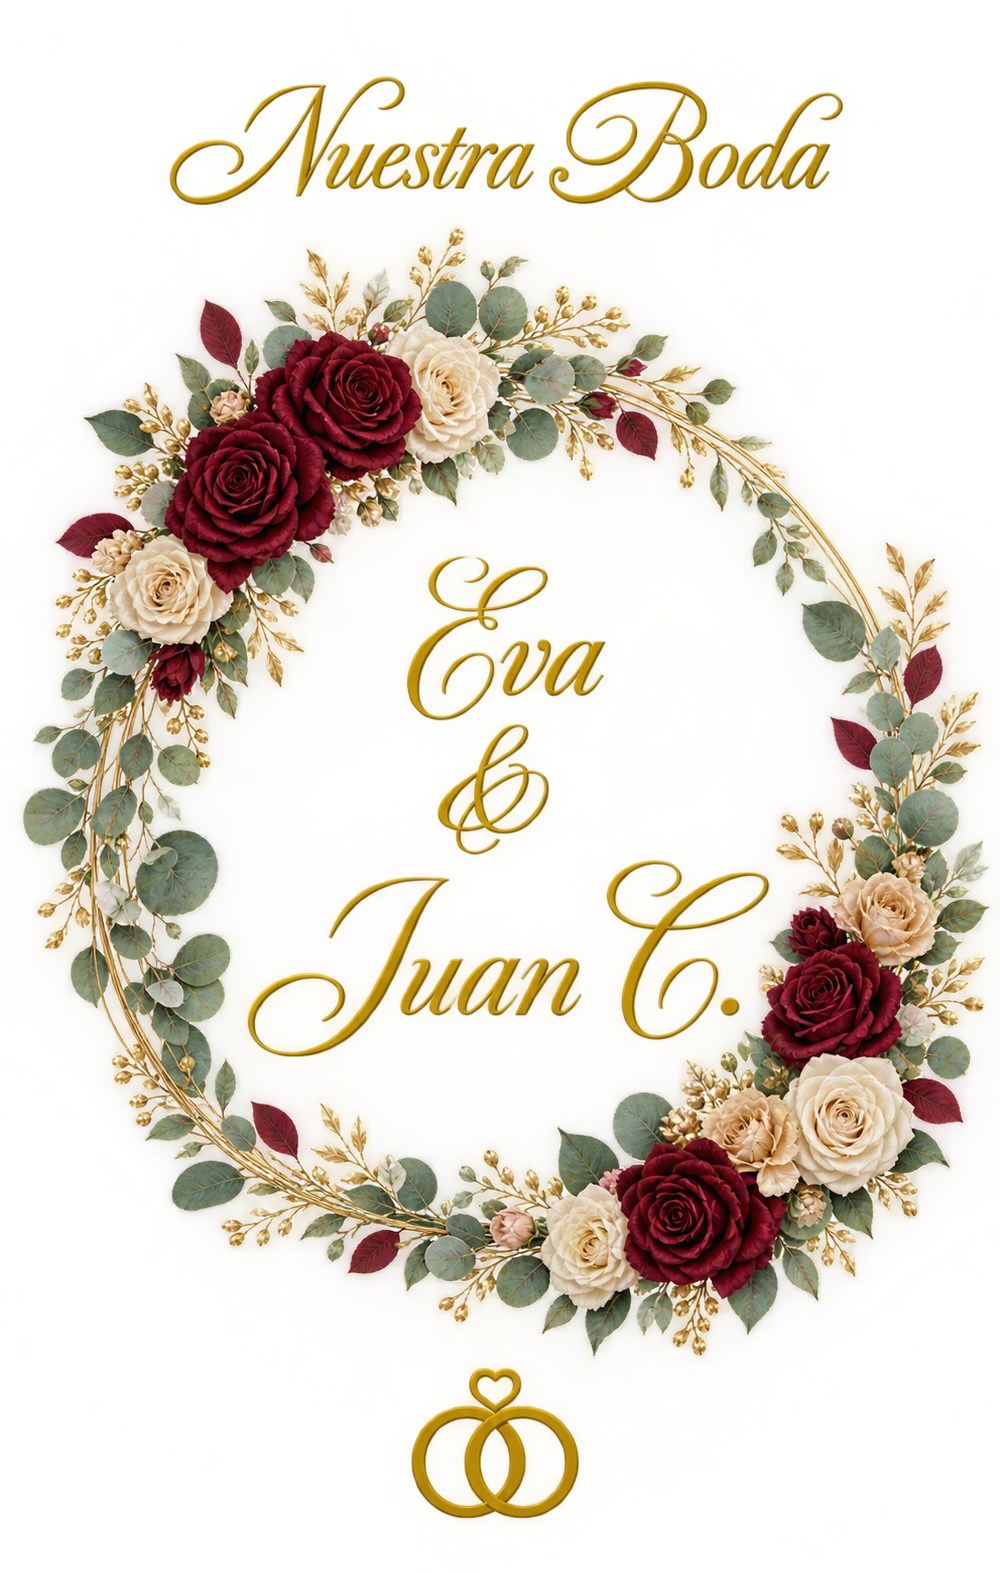
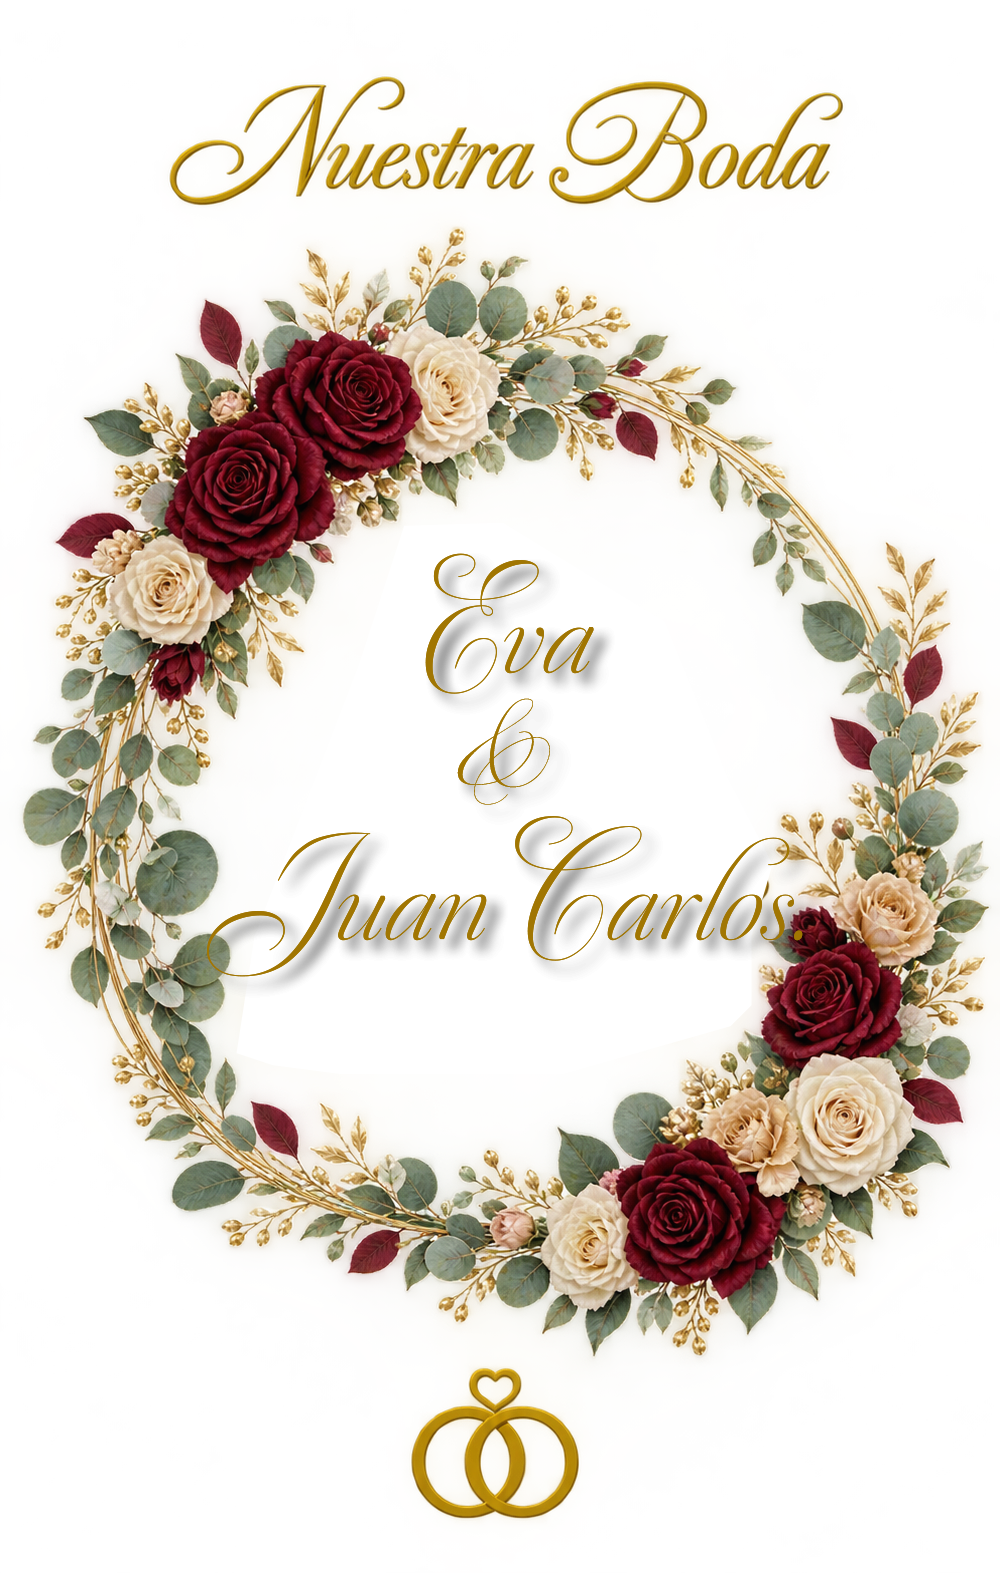
Actualizar portada con Invitacion floral dorada_ Nuestra Boda1 y regenerar preview

Changed region(s): [[0.217, 0.3427, 0.806, 0.6853]]

diff --git a/index.html b/index.html
@@ -11,8 +11,8 @@
   <meta property="og:title" content="BODA EVA Y JUAN CARLOS">
   <meta property="og:description" content="Nuestra Boda - Sábado 28 de Noviembre de 2026. Acompáñanos a celebrar este momento tan especial.">
   <meta property="og:url" content="https://efxtv01.github.io/Boda-Eva-y-Juan-Carlos/">
-  <meta property="og:image" content="https://efxtv01.github.io/Boda-Eva-y-Juan-Carlos/assets/images/preview_boda.jpg">
-  <meta property="og:image:secure_url" content="https://efxtv01.github.io/Boda-Eva-y-Juan-Carlos/assets/images/preview_boda.jpg">
+  <meta property="og:image" content="https://efxtv01.github.io/Boda-Eva-y-Juan-Carlos/assets/images/preview_boda.jpg?v=2">
+  <meta property="og:image:secure_url" content="https://efxtv01.github.io/Boda-Eva-y-Juan-Carlos/assets/images/preview_boda.jpg?v=2">
   <meta property="og:image:type" content="image/jpeg">
   <meta property="og:image:width" content="800">
   <meta property="og:image:height" content="800">
@@ -22,13 +22,13 @@
   <meta name="twitter:card" content="summary_large_image">
   <meta name="twitter:title" content="BODA EVA Y JUAN CARLOS">
   <meta name="twitter:description" content="Nuestra Boda - Sábado 28 de Noviembre de 2026. Acompáñanos a celebrar este momento tan especial.">
-  <meta name="twitter:image" content="https://efxtv01.github.io/Boda-Eva-y-Juan-Carlos/assets/images/preview_boda.jpg">
+  <meta name="twitter:image" content="https://efxtv01.github.io/Boda-Eva-y-Juan-Carlos/assets/images/preview_boda.jpg?v=2">
 
   <!-- Schema.org / Microdata para crawlers antiguos -->
   <meta itemprop="name" content="BODA EVA Y JUAN CARLOS">
   <meta itemprop="description" content="Nuestra Boda - Sábado 28 de Noviembre de 2026. Acompáñanos a celebrar este momento tan especial.">
-  <meta itemprop="image" content="https://efxtv01.github.io/Boda-Eva-y-Juan-Carlos/assets/images/preview_boda.jpg">
-  <link rel="image_src" href="https://efxtv01.github.io/Boda-Eva-y-Juan-Carlos/assets/images/preview_boda.jpg">
+  <meta itemprop="image" content="https://efxtv01.github.io/Boda-Eva-y-Juan-Carlos/assets/images/preview_boda.jpg?v=2">
+  <link rel="image_src" href="https://efxtv01.github.io/Boda-Eva-y-Juan-Carlos/assets/images/preview_boda.jpg?v=2">
   <link rel="icon" type="image/png" href="./assets/images/wax_seal.png">
 
   <!-- Google Fonts Elegantes -->
@@ -98,7 +98,7 @@
          ========================================================== -->
     <header class="hero-section">
       <div class="hero-cover-wrapper">
-        <img src="./assets/images/portada_floral_dorada.png" alt="Nuestra Boda - Eva &amp; Juan C." class="hero-cover-img">
+        <img src="./assets/images/portada_floral_dorada.png?v=2" alt="Nuestra Boda - Eva &amp; Juan C." class="hero-cover-img">
       </div>
     </header>
 
